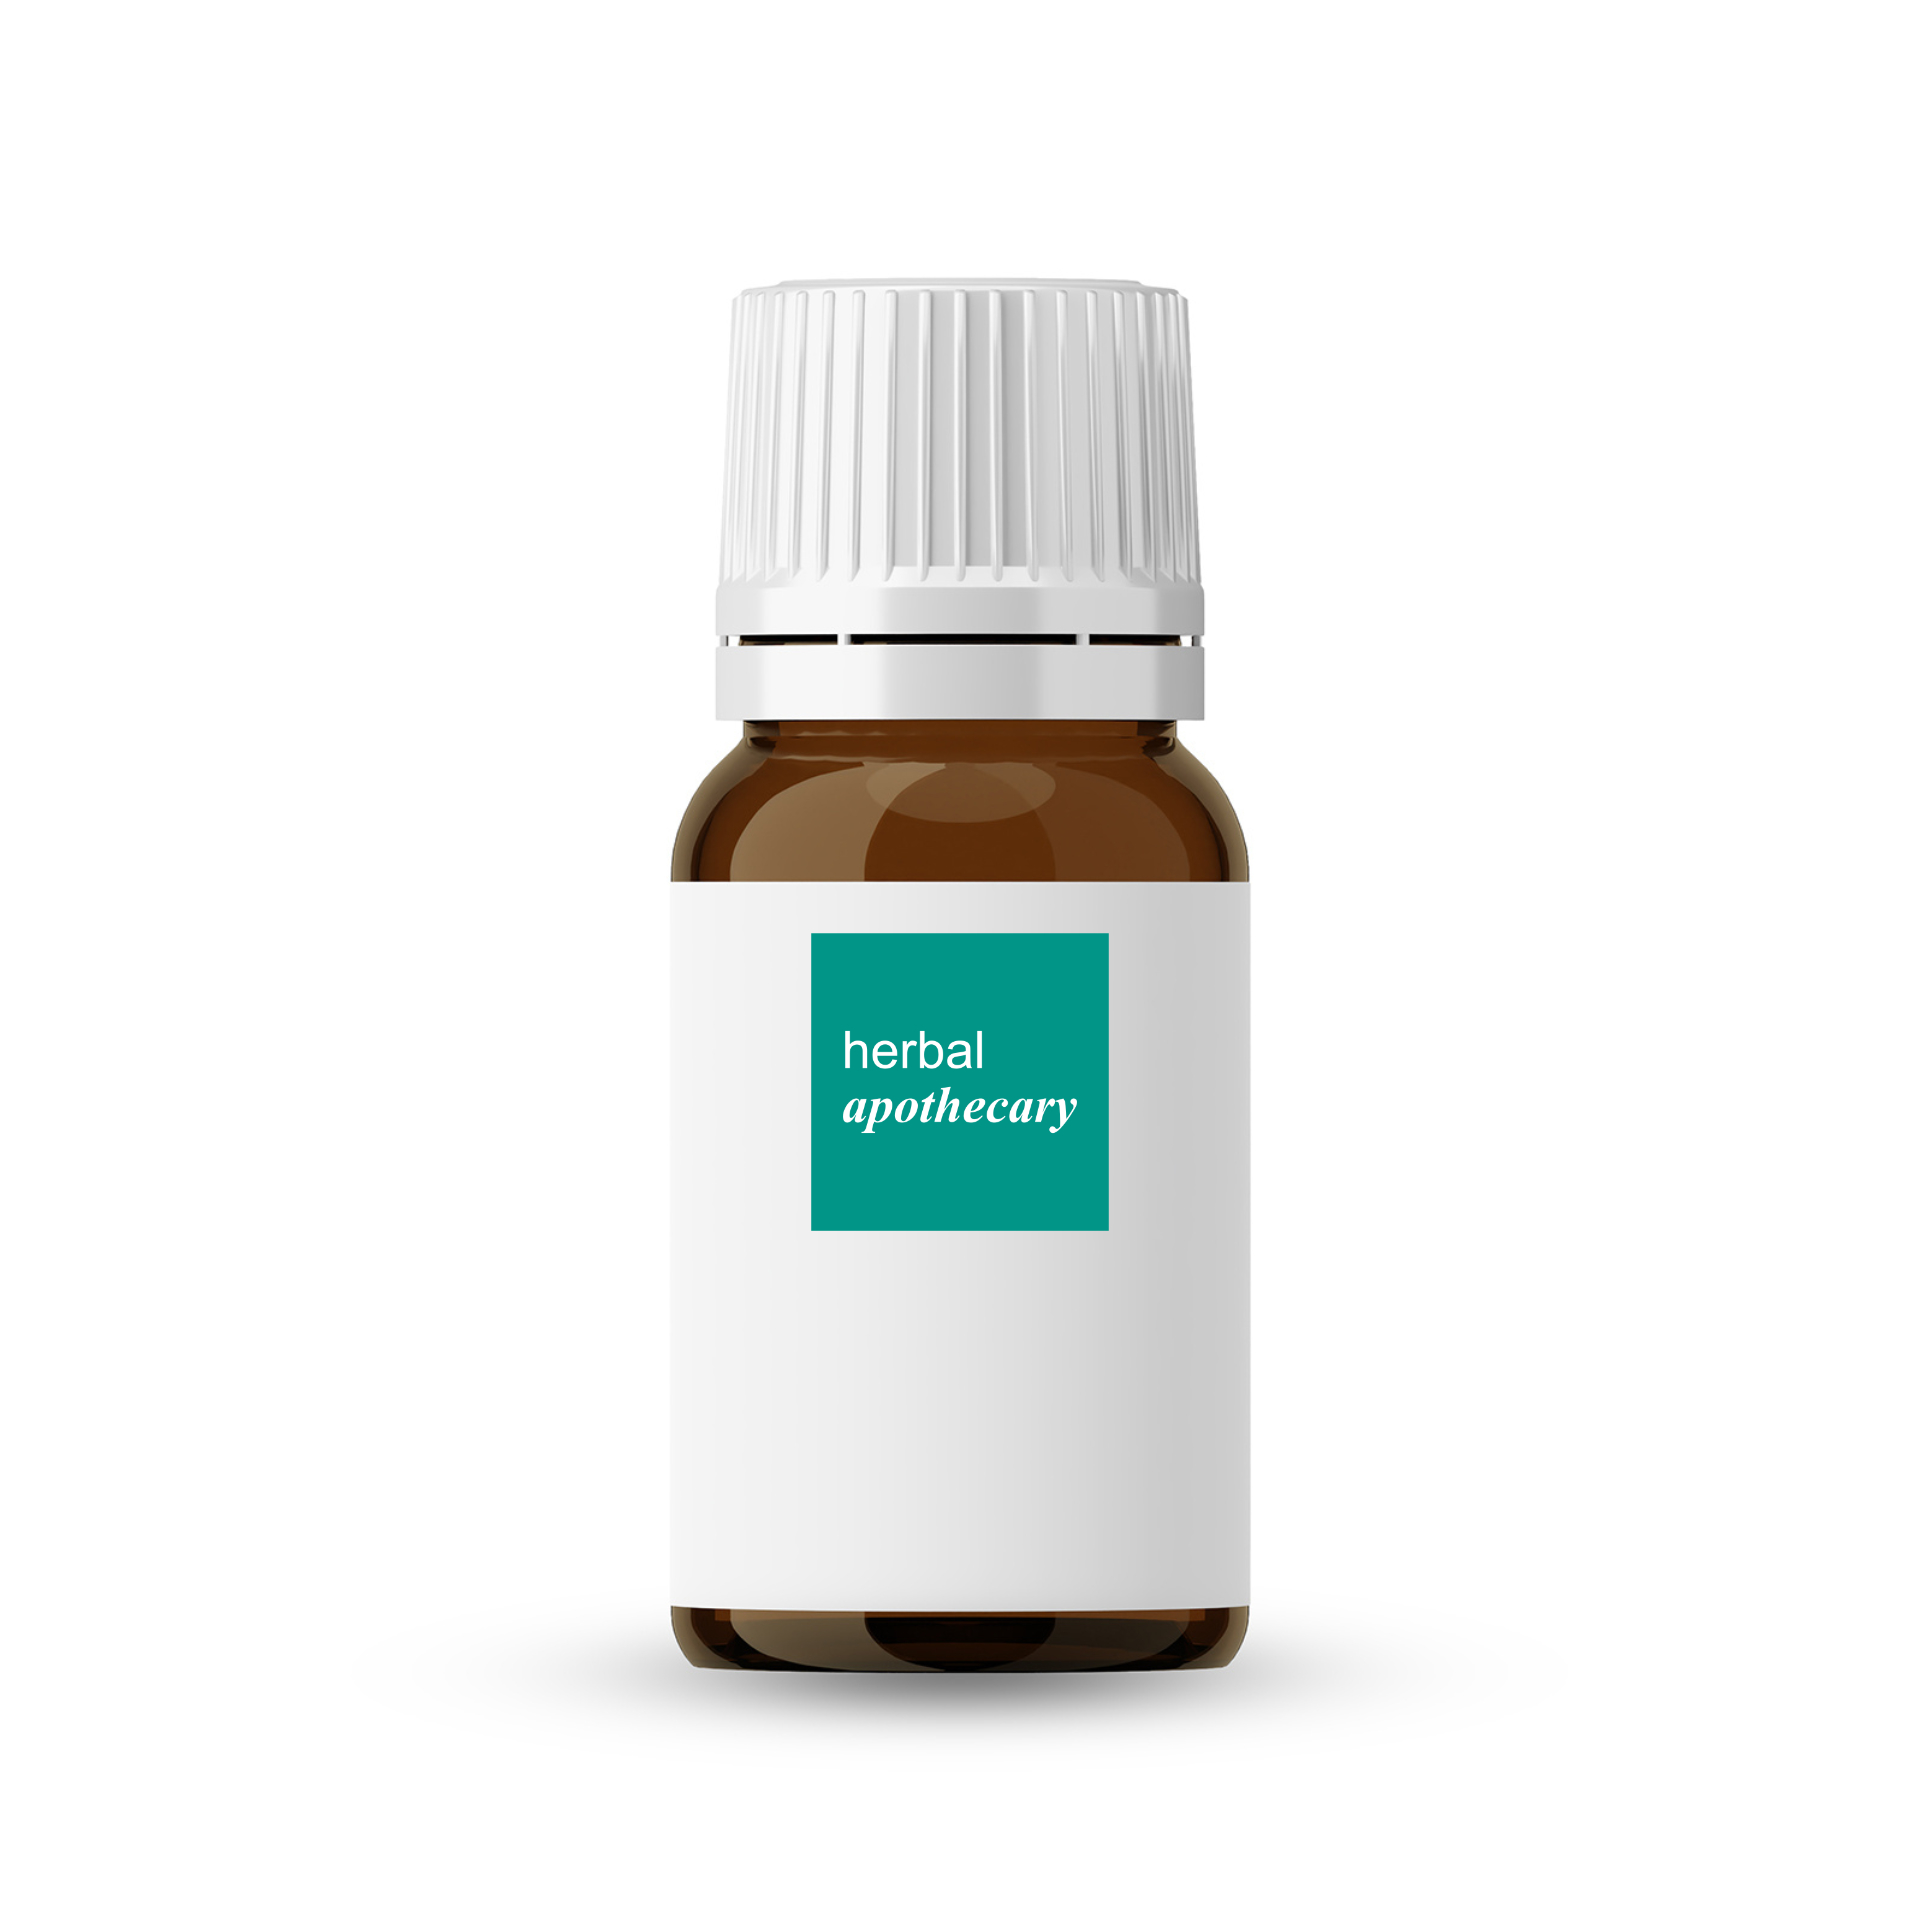
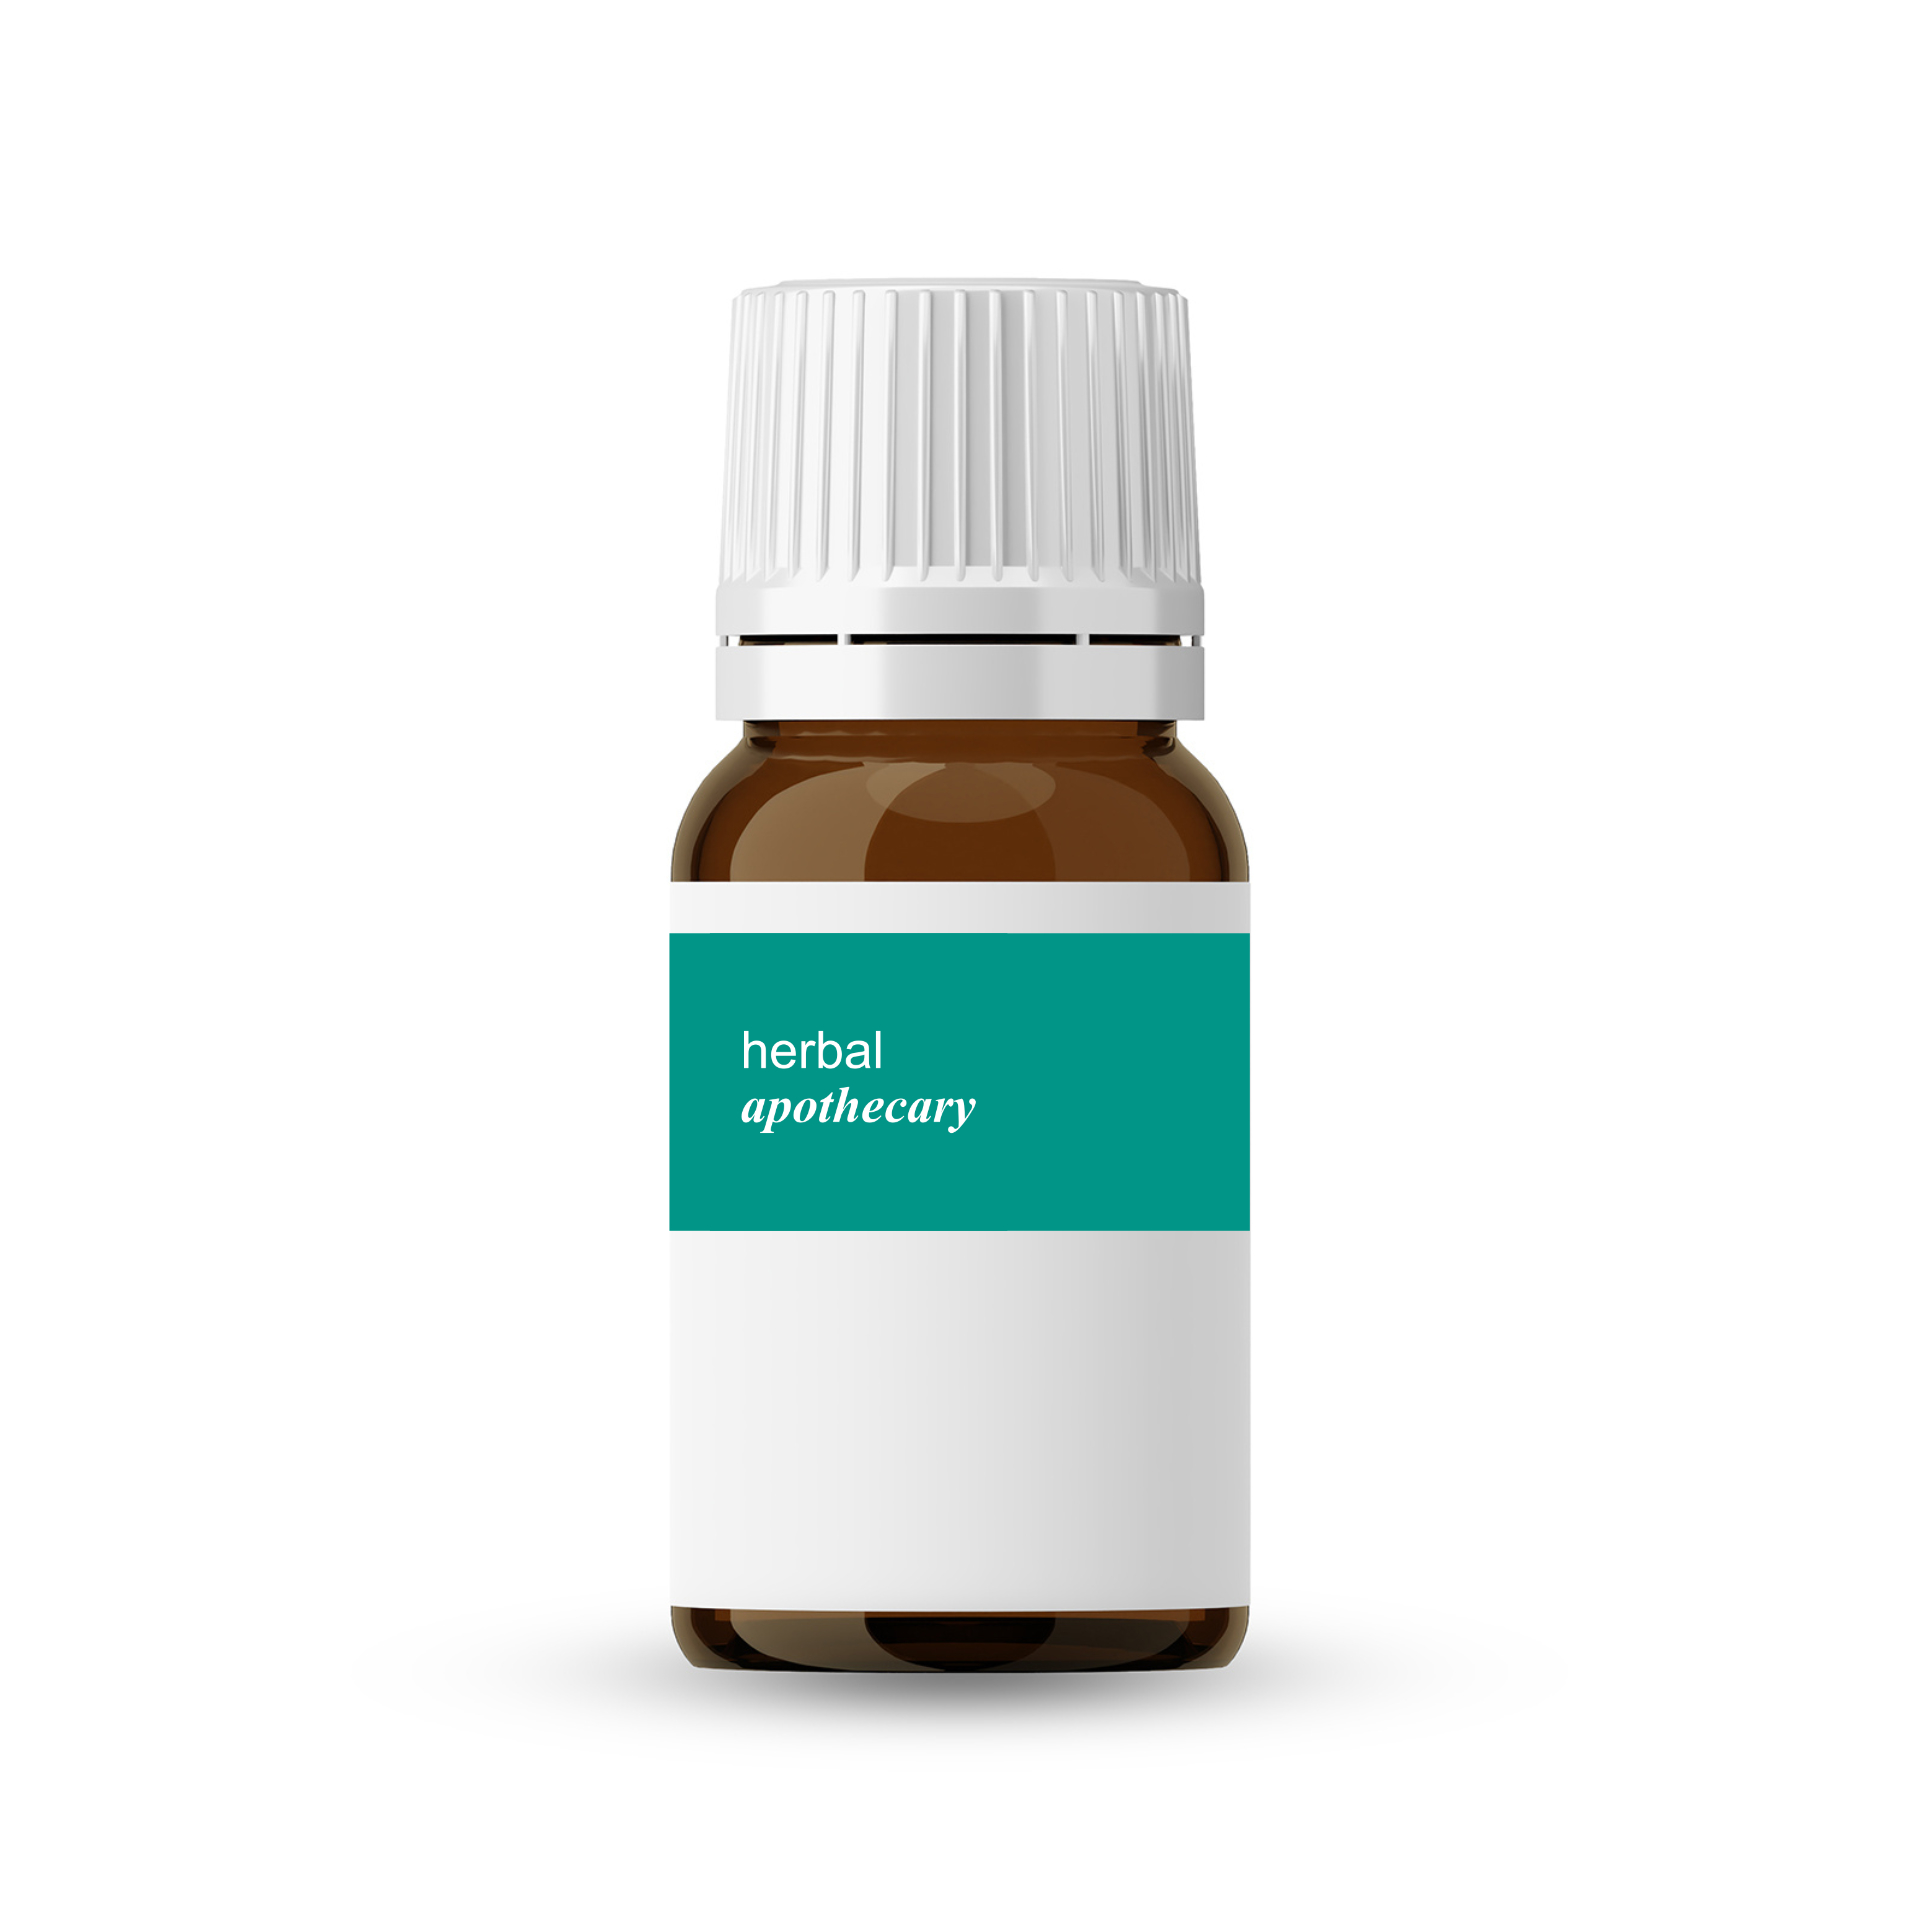
tweaks

Changed region(s): [[0.3438, 0.4688, 0.6562, 0.6562]]

diff --git a/perch/addons/apps/natures_laboratory/Natures_Laboratory.shopifys.class.php b/perch/addons/apps/natures_laboratory/Natures_Laboratory.shopifys.class.php
@@ -177,20 +177,10 @@ class Natures_Laboratory_Shopifys extends PerchAPI_Factory
 		    $font_color = imagecolorallocate($jpg_img, 1, 139, 145);
 		    $text = $data['DESCRIPTION'];
 		    $lines = explode('|', wordwrap($text, 16, '|'));
-		    $y = 1340;
+		    $y = 1330;
 		    foreach ($lines as $line)
 			{
-				$length = strlen($line);
-				$r = 0;
-				$r = (20-$length)/2;
-				$pad = "";
-				$i = 0;
-				while($i <= $r){
-					$pad .= " ";
-					$i++;
-				}
-		    	imagettftext($jpg_img, 54, 0, 690, $y, $font_color, $font_path, $pad.$line);
-		    	$pad = '';
+		    	imagettftext($jpg_img, 54, 0, 710, $y, $font_color, $font_path, $pad.$line);
 		    	$y += 76;
 		    }
 		    imagejpeg($jpg_img);

diff --git a/perch/addons/apps/natures_laboratory/Natures_Laboratory.goodsins.class.php b/perch/addons/apps/natures_laboratory/Natures_Laboratory.goodsins.class.php
@@ -13,7 +13,7 @@ class Natures_Laboratory_Goods_Ins extends PerchAPI_Factory
 	public function getGoodsIn(){
 		
 		$today = date('Y-m-d');
-		$date = strtotime($today.' -1 year');
+		$date = strtotime($today.' -2 year');
 		$date = date('Y-m-d', $date);
 		
 		$sql = 'SELECT * FROM perch3_natures_laboratory_goods_in WHERE dateIn>="'.$date.'" ORDER BY ourBatch DESC';

diff --git a/perch/addons/apps/natures_laboratory/modes/shopify/index.pre.php b/perch/addons/apps/natures_laboratory/modes/shopify/index.pre.php
@@ -163,6 +163,10 @@ error_reporting(E_ALL);
 		    $name = str_replace(" ".$quantity, "", $row['DESCRIPTION']);
 			$sku = $row['STOCK_CODE'];
 			$parentSku = $sku;
+			
+			if($row['STOCK_CAT']=='12'){
+				$name = $name.' Essential Oil';
+			}
 
 			$price = number_format($row['SALES_PRICE'],2);
 			
